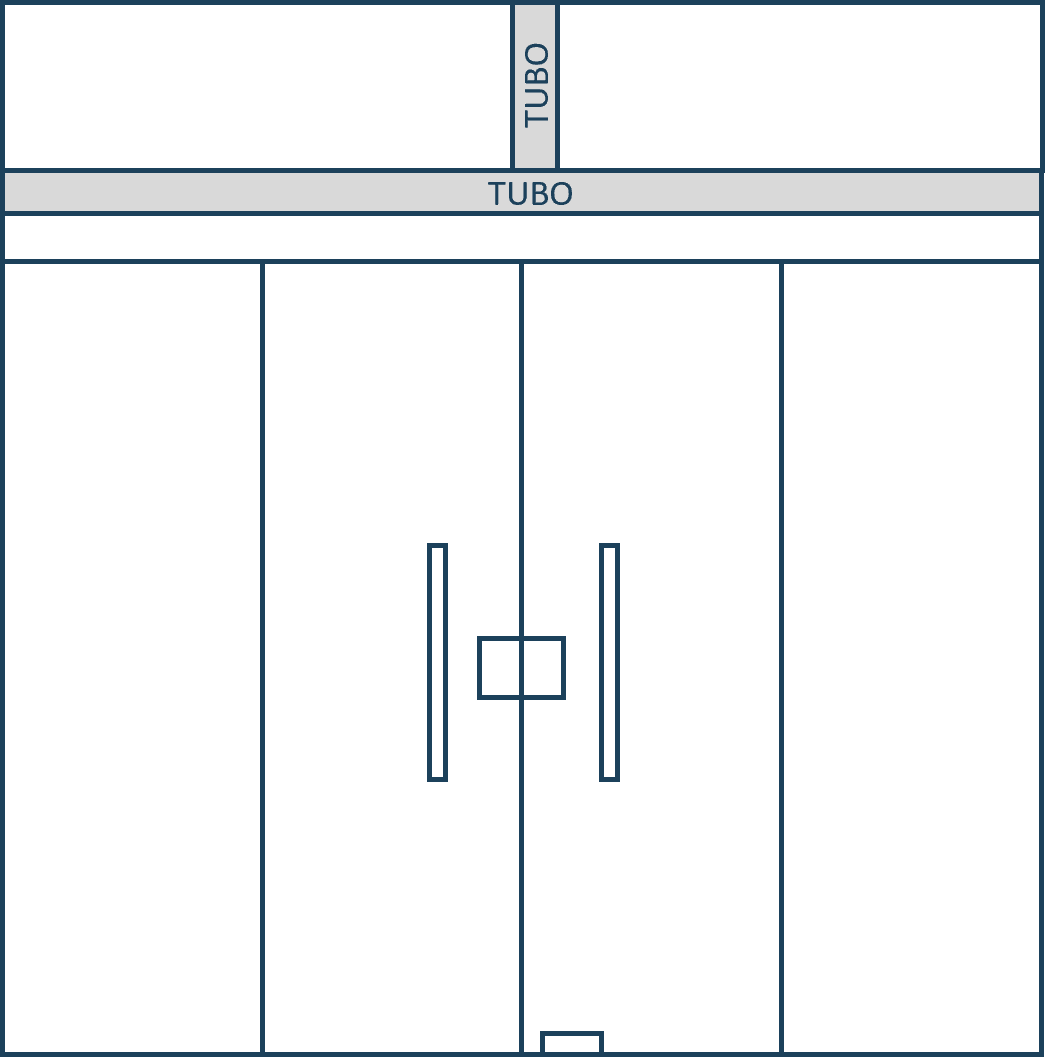
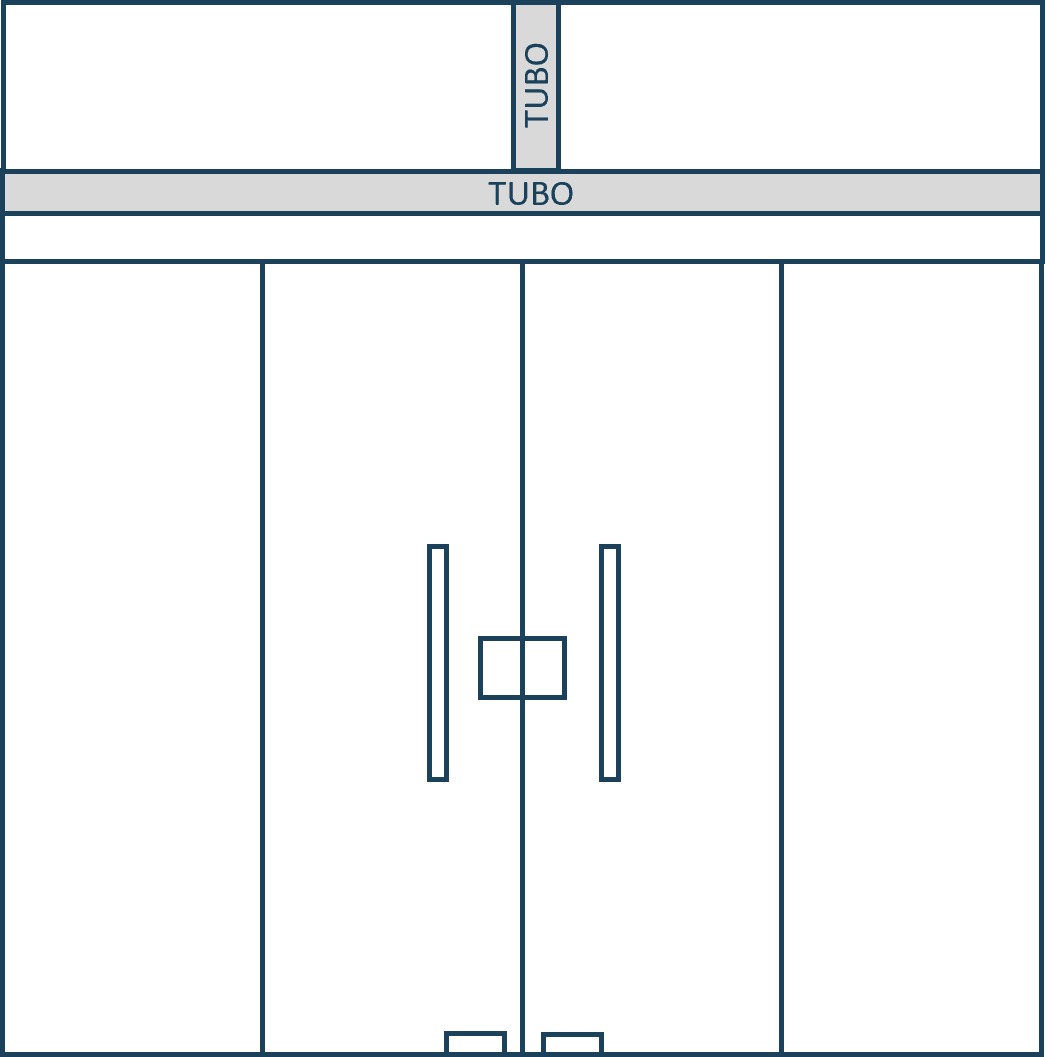
250526.1535

Changed region(s): [[0.4593, 0.1561, 0.5512, 0.1873], [0.4287, 0.9678, 0.49, 0.9991], [0.9799, 0.1561, 1.0, 0.1873]]

diff --git a/src/app/projetos/page.tsx b/src/app/projetos/page.tsx
@@ -841,7 +841,7 @@ const DESENHOS: Record<string, { label: string; arquivo: string }[]> = {
   ],
 }
 
-const TIPOS_FOLHA = ["Fixo", "Móvel", "Basculante", "Pivotante", "Maxim-Ar"]
+const TIPOS_FOLHA = ["Fixo", "Móvel", "Basculante", "Pivotante", "Maxim-Ar", "Bandeira"]
 const TRILHO_PORTA_OPCOES: Array<{ value: TrilhoPorta; label: string }> = [
   { value: "aparente", label: "Trilho Aparente" },
   { value: "interrompido", label: "Trilho Interrompido" },
@@ -1158,7 +1158,7 @@ const getPresetFolhaPorTipo = (tipo: ProjetoVisualTipo, numeroFolha: number): Pi
       tipo_folha: numeroFolha % 2 === 0 ? "Móvel" : "Fixo",
       formula_largura: "L / 2 - 12",
       formula_altura: "A - 45",
-      observacao: "Porta deslizante com compensação de trilho e transpasse.",
+      observacao: "Porta deslizante com compensação de trilho e transpasse. Exemplo de bandeira: A - AP.",
     }
   }
 
@@ -1823,6 +1823,7 @@ export default function ProjetosPage() {
   }
 
   const projetoEhDeslizante = /deslizante/.test(normalizarBuscaItem(`${form.desenho} ${form.nome} ${form.categoria}`))
+  const projetoEhBandeira = /bandeira|band[oô]/.test(normalizarBuscaItem(`${form.desenho} ${form.nome} ${form.categoria}`))
 
   const salvar = async () => {
     if (!form.nome.trim()) {
@@ -3443,7 +3444,8 @@ export default function ProjetosPage() {
                         <p><strong>A1</strong> = Altura lado A</p>
                         <p><strong>A2</strong> = Altura lado B</p>
                         <p><strong>AB</strong> = Altura porta até bandeira</p>
-                        <p className="pt-1">Exemplos: L / 2 - 5, A - 20, AB - 10</p>
+                        <p><strong>AP</strong> = Altura da porta</p>
+                        <p className="pt-1">Exemplos: L / 2 - 5, A - 20, AB - 10, A - AP</p>
                       </div>
                     </div>
                     <div className="rounded-2xl border border-emerald-100 bg-emerald-50 p-3">
@@ -3526,7 +3528,7 @@ export default function ProjetosPage() {
                           </label>
                           <input
                             type="text"
-                            placeholder="Ex: A - 10"
+                            placeholder={projetoEhBandeira ? "Ex: A - AP" : "Ex: A - 10"}
                             value={folha.formula_altura}
                             onChange={e => atualizarFolha(idx, "formula_altura", e.target.value)}
                             className="w-full p-2.5 rounded-xl bg-white border border-gray-200 text-sm font-mono outline-none"
@@ -3710,7 +3712,7 @@ export default function ProjetosPage() {
                                 className="mt-0.5 h-4 w-4 rounded border-gray-300"
                               />
                               <div className="min-w-0 flex-1">
-                                <p className="text-sm font-black whitespace-normal break-words leading-snug" style={{ color: theme.contentTextLightBg }}>
+                                <p className="text-sm font-black whitespace-normal wrap-break-word leading-snug" style={{ color: theme.contentTextLightBg }}>
                                   {item.nome}
                                 </p>
                                 <p className="text-[11px] text-gray-500 font-medium mt-0.5">
@@ -4295,7 +4297,7 @@ export default function ProjetosPage() {
                           <select
                             value={p.perfil_id}
                             onChange={e => atualizarPerfil(idx, "perfil_id", e.target.value)}
-                            className="w-full min-h-[46px] p-2.5 rounded-xl bg-white border border-gray-200 text-sm font-bold outline-none"
+                            className="w-full min-h-11.5 p-2.5 rounded-xl bg-white border border-gray-200 text-sm font-bold outline-none"
                             style={{ color: theme.contentTextLightBg }}
                           >
                             {getPerfisDisponiveis(String(p.perfil_id), p.nome).length === 0 && (

diff --git a/src/app/calculoprojeto/page.tsx b/src/app/calculoprojeto/page.tsx
@@ -1709,6 +1709,7 @@ const calcularProjeto = (params: {
     L1: largura, L2: largura2 || largura,
     A1: altura, A2: altura2 || altura,
     AB: altura2 || altura,
+    AP: altura2 || altura,
   }
   const vars = varsBase
   const variacaoTecnicaDecomposta = decomporVariacaoTecnica(variacaoTecnica)
@@ -4087,8 +4088,11 @@ export default function CalculoProjetoPage() {
                 const trilhosDisponiveis = getTrilhosDisponiveisProjeto(detalhe)
                 const trilhoAtivo = detalhe ? getTrilhoAtivoProjeto(detalhe, item.variacaoTrilho) : ""
                 const projetoECanto = textoProjeto.includes("canto")
+                const projetoEBandeira = textoProjeto.includes("bandeira") || textoProjeto.includes("bandô") || textoProjeto.includes("bando")
                 const usaL2 = !!(detalhe?.folhas.some(f => /\bL2\b/i.test(f.formula_largura + " " + f.formula_altura)))
+                const usaAP = !!(detalhe?.folhas.some(f => /\bAP\b/i.test(f.formula_largura + " " + f.formula_altura)))
                 const usaAB = !!(detalhe?.folhas.some(f => /\bAB\b|\bA2\b/i.test(f.formula_largura + " " + f.formula_altura)))
+                const usarAlturaPorta = usaAB || usaAP || projetoEBandeira
                 const mostrarLargura2 = usaL2 || projetoECanto
                 const kitAxisGroup = GRUPOS_VARIACAO_BOX.find(g => g.key === "kit")!
                 const kitTypesDosProjeto = (() => {
@@ -4313,15 +4317,16 @@ export default function CalculoProjetoPage() {
                           </div>
                         </>
                       )}
-                      {usaAB && (
+                      {usarAlturaPorta && (
                         <div>
-                          <label className="text-[10px] font-black text-gray-400 uppercase tracking-wider mb-1 block">Alt. Bandeira (AB)</label>
+                          <label className="text-[10px] font-black text-gray-400 uppercase tracking-wider mb-1 block">Altura da Porta (AP)</label>
                           <input
-                            type="number" min={0} placeholder="Bandeira/A2"
+                            type="number" min={0} placeholder="Ex: 2100"
                             value={item.altura2}
                             onChange={(e) => atualizarItem(item.id, "altura2", e.target.value)}
                             className="w-full p-3 rounded-2xl bg-gray-50 border border-gray-100 text-sm font-bold outline-none"
                           />
+                          <p className="text-[10px] text-gray-400 mt-1">Use em fórmulas de bandeira: A - AP (AB e A2 continuam válidas).</p>
                         </div>
                       )}
                     </div>